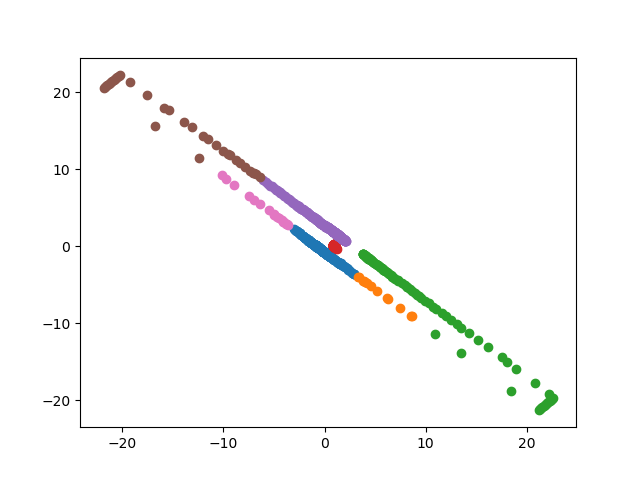
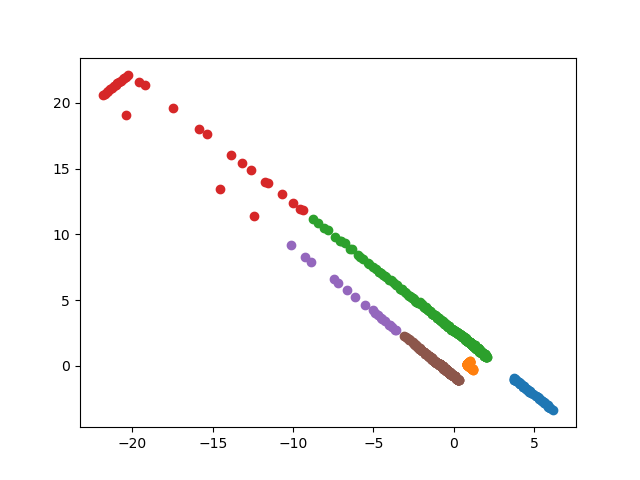
change ICP procedure

diff --git a/wangetall/perception/icp.py b/wangetall/perception/icp.py
@@ -1,6 +1,10 @@
 import numpy as np
 import math
 from sklearn.neighbors import NearestNeighbors
+from skimage.transform import estimate_transform
+from scipy.spatial.distance import cdist
+from scipy.optimize import linear_sum_assignment
+import matplotlib.pyplot as plt
 import sys
 class ICP:
     """
@@ -26,31 +30,47 @@ class ICP:
         Testing out with the params
         """
         self.max_iterations=30
-        self.distance_threshold=10
+        self.distance_threshold=0.5
         self.convergence_translation_threshold=1e-3
         self.convergence_rotation_threshold=1e-4
-        self.point_pairs_threshold=0
+        self.point_pairs_threshold=2
 
-    def run(self, reference_points, points):
+    def run(self, reference_points, points, key = None, trackid = None):
         self.reference_points = reference_points
         self.points = points
-        nbrs = NearestNeighbors(n_neighbors=1, algorithm='kd_tree').fit(self.reference_points)
+        # nbrs = NearestNeighbors(n_neighbors=1, algorithm='kd_tree').fit(self.reference_points)
 
         for iter_num in range(self.max_iterations):
             #print('------ iteration', iter_num, '------')
             static=  False
 
-            closest_point_pairs = []
+            # closest_point_pairs = []
             closest_point_pairs_idxs = []
+            C = cdist(self.points, self.reference_points)
+            try:
+                _, assignment = linear_sum_assignment(C)
+            except ValueError:
+                print(C)
+                breakpoint()
+            if self.points.shape[0] < self.reference_points.shape[0]:
+                N = self.points.shape[0]
+            else:
+                N = self.reference_points.shape[0]
+            validIdxs = [i for i in range(N) if C[i, assignment[i]]<self.distance_threshold]
+            closest_point_pairs = np.zeros((len(validIdxs),2, 2))
+            closest_point_pairs[:,:,0] = self.points[validIdxs]
+            closest_point_pairs[:,:,1] = self.reference_points[assignment[validIdxs]]
+            for idx in validIdxs:
+                closest_point_pairs_idxs.append((idx, assignment[idx]))
+            # if key == 129 and trackid == 2:
+            #     plt.figure()
+            #     plt.plot(self.points[:,0], self.points[:,1],'bo', markersize = 10)
+            #     plt.plot(self.reference_points[:,0], self.reference_points[:,1],'rs',  markersize = 7)
+            #     for p in range(N):
+            #         plt.plot([self.points[p,0], self.reference_points[assignment[p],0]], [self.points[p,1], self.reference_points[assignment[p],1]], 'k')
+            #     plt.show()
+            #     breakpoint()
 
-              # list of point correspondences for closest point rule
-            distances, indices = nbrs.kneighbors(self.points)
-            # Step 1: A point in P is associated to its nearest neighbour in Q if their distance is within a certain threshold,
-            for nn_index in range(len(distances)):
-                if distances[nn_index][0] < self.distance_threshold: # ELSE OUTLIER?
-                    closest_point_pairs.append((self.points[nn_index], self.reference_points[indices[nn_index][0]]))
-                    closest_point_pairs_idxs.append((nn_index, indices[nn_index][0]))
-                    # otherwise it is discarded as an outlier for this iteration and become unassociated to any point in Q.
 
             # if only few point pairs, stop process
             #print('number of pairs found:', len(closest_point_pairs))
@@ -59,21 +79,26 @@ class ICP:
                 break
 
             # All associations obtained in this way are used to estimate a transform that aligns the point set P to Q.
-            closest_rot_angle, closest_translation_x, closest_translation_y = self.point_based_matching(closest_point_pairs)
-
-            if closest_rot_angle is None or closest_translation_x is None or closest_translation_y is None:
+            # closest_rot_angle, closest_translation_x, closest_translation_y = self.point_based_matching(closest_point_pairs)
+            if len(closest_point_pairs) == 0:
                 #print('No better solution can be found!')
                 break
 
-            #T he points in P are then updated to their new positions with the estimated transform
-            c, s = math.cos(closest_rot_angle), math.sin(closest_rot_angle)
-            rot = np.array([[c, -s],
-                            [s, c]])
-            aligned_points = np.dot(self.points, rot.T)
-            aligned_points[:, 0] += closest_translation_x
-            aligned_points[:, 1] += closest_translation_y
 
-            self.points = aligned_points
+            tform = estimate_transform("euclidean", closest_point_pairs[:,:,0], closest_point_pairs[:,:,1])
+            closest_rot_angle = tform.rotation
+            closest_translation_x, closest_translation_y = tform.translation
+
+            #T he points in P are then updated to their new positions with the estimated transform
+
+            # c, s = math.cos(closest_rot_angle), math.sin(closest_rot_angle)
+            # rot = np.array([[c, -s],
+            #                 [s, c]])
+            # aligned_points = np.dot(self.points, rot.T)
+            # aligned_points[:, 0] += closest_translation_x
+            # aligned_points[:, 1] += closest_translation_y
+
+            self.points = tform(self.points)
 
             # and the loop continues until convergence
             if (abs(closest_rot_angle) < self.convergence_rotation_threshold) \

diff --git a/wangetall/coarse_association.py b/wangetall/coarse_association.py
@@ -27,6 +27,7 @@ class Coarse_Association():
 
     def run(self, Z, state): #Q_d, dynamic_tracks_dict):
         #3.: (x, P, A) <- ASSOCIATEANDUPDATEWITHSTATIC(x, P, C)
+
         self.state=state
         if self.state.static_background.xb.size != 0:
             A, static_point_pairs = self.associateAndUpdateWithStatic(Z)
@@ -38,17 +39,19 @@ class Coarse_Association():
             static_point_pairs = []
 
         #5. for i = 1,2,.,Nt do
+        used_clusters = set()
         if len(self.state.dynamic_tracks) != 0:
             dynamic_point_pairs = {}
             dynamic_associations = {}
             for key, track in self.state.dynamic_tracks.items():
                 dynamic_P = track.xp+track.kf.x[0:2]
-                A_d, point_pairs = self.associateAndUpdateWithDynamic(Z, dynamic_P)
+                A_d, point_pairs = self.associateAndUpdateWithDynamic(Z, dynamic_P, track.id)
                 dynamic_associations[key] = A_d
                 dynamic_point_pairs[key] = point_pairs
                 #7. C <- C/A
-                for key in A_d.keys():
-                    del self.C[key]
+                used_clusters.add(key)
+                # for key in A_d.keys():
+                #     del self.C[key]
         else:
             dynamic_associations = {}
             dynamic_point_pairs = {}
@@ -56,8 +59,9 @@ class Coarse_Association():
         new_tracks = {}
         for key in self.C.keys():
             #10. (x, P) INITIALISENEWTRACK(x, P, C)
-            # P = Z[self.C[key]]
-            new_tracks[key] = self.C[key]
+            # new_tracks[key] = self.C[key]
+            if key not in used_clusters:
+                new_tracks[key] = self.C[key]
         # breakpoint()
         return A, static_point_pairs, dynamic_associations, dynamic_point_pairs, new_tracks #A_d, new_tracks
 
@@ -73,12 +77,12 @@ class Coarse_Association():
                     static_C[key] = self.C[key]
         return static_C, point_pairs
 
-    def associateAndUpdateWithDynamic(self, Z, points):
+    def associateAndUpdateWithDynamic(self, Z, points, trackid):
         dynamic_C = {}
         point_idx_pairs = []
         for key in self.C.keys():
             P = Z[self.C[key]]
-            dynamic, point_pairs = self.ICP.run(points, P)
+            dynamic, point_pairs = self.ICP.run(points, P, key, trackid)
             if dynamic:
                 dynamic_C[key] = self.C[key]
                 point_idx_pairs = point_idx_pairs+point_pairs

diff --git a/wangetall/test.py b/wangetall/test.py
@@ -1,36 +1,45 @@
 import numpy as np
 from skimage.transform import estimate_transform
-
 import matplotlib.pyplot as plt
-boundaries = np.load("boundaries.npy")
-boundaries_centroid = np.mean(boundaries, axis = 0)
-scans = np.load("scans.npy")-boundaries_centroid
-boundaries = boundaries - boundaries_centroid
+from scipy.spatial.distance import cdist
+from scipy.optimize import linear_sum_assignment
 
-# boundaries = np.arange(20).reshape((10,2))
+pts = np.load("pts.npy")
+refs = np.load("ref.npy")
 
-# scans = boundaries + [1,2]
+C = cdist(pts, refs)
+print(refs.shape)
+print(pts.shape)
+print(C.shape)
+_, assigment = linear_sum_assignment(C)
 
-tform = estimate_transform("euclidean", boundaries, scans)
-theta = tform.rotation
-print(theta)
-R = np.array([[np.cos(theta), -np.sin(theta)],[np.sin(theta), np.cos(theta)]])
-print(tform.translation)
+if pts.shape[0] < refs.shape[0]:
+    N = pts.shape[0]
+else:
+    N = refs.shape[0]
 
-# b = np.ones((boundaries.shape[0], 3))
-# b[:,0:2]= boundaries
-shifted_b = tform(boundaries)
-test = (boundaries.T+np.array([[tform.translation[0]], [tform.translation[1]]])).T
-# plt.xlim(-0.5, 0.5)
-# plt.ylim(-0.5,0.5)
-plt.gca().set_aspect('equal', adjustable='box')
-plt.scatter(scans[:,0], scans[:,1], c="b", marker="o", alpha =0.5, label="Scan Data")
-plt.scatter(boundaries[:,0], boundaries[:,1], c="orange", marker="o", alpha = 1, label="Boundary Points")
-plt.scatter(shifted_b[:,0], shifted_b[:,1], c="green", marker="o", alpha = 0.5, label="Shifted")
 
-plt.scatter(test[:,0], test[:,1], c="purple", marker="o", alpha = 0.5, label="Test")
+validIdxs = [i for i in range(N) if C[i, assigment[i]]<10]
+pairs = np.zeros((len(validIdxs),2, 2))
+pairs[:,:,0] = pts[validIdxs]
+pairs[:,:,1] = refs[assigment[validIdxs]]
+print(assigment.shape)
 
-plt.legend()
-
+plt.plot(pts[:,0], pts[:,1],'bo', markersize = 10)
+plt.plot(refs[:,0], refs[:,1],'rs',  markersize = 7)
+for p in range(refs.shape[0]):
+    plt.plot([pts[p,0], refs[assigment[p],0]], [pts[p,1], refs[assigment[p],1]], 'k')
+# plt.xlim(-1.1,1.1)
+# plt.ylim(-1.1,1.1)
+plt.axes().set_aspect('equal')
 plt.show()
 
+# x = [[(0,0), (0.1,0.1)],[(2,2), (2.1, 2.1)], [(3,3), (3.1, 3.1)]]
+# t = np.array(x)
+# print(t)
+# print(t[:,0,:])
+# print(t.shape)
+
+# tform = estimate_transform("euclidean", t[:,0,:], t[:,1,:])
+# dx, dy = tform.translation
+# print(dx)

diff --git a/wangetall/perception/lidarUpdater.py b/wangetall/perception/lidarUpdater.py
@@ -128,20 +128,18 @@ class lidarUpdater:
                 initial_association[0] = np.arange(len(tgt_points))
                 xy, x_ind, y_ind = np.intersect1d(pairs[:,0], np.array(tgt_points), return_indices=True)
                 initial_association[1, y_ind] = pairs[x_ind, 1]
-
                 self.jcbb.assign_values(xs = self.state.xs, scan_data = self.polar_laser_points[tgt_points], track = track.kf.x, P = track.kf.P[0:2,0:2], static=False, psi=self.state.xs[2])
-                if track.id == 2:
-                    scan_x, scan_y = Helper.convert_scan_polar_cartesian_joint(self.polar_laser_points[tgt_points])
-                    plt.figure()
-                    # plt.xlim(-15,15)
-                    # plt.ylim(-15,15)
-                    plt.scatter(scan_x, scan_y, c="b", marker="o", alpha = 0.5, label="Scan Data")
-                    plt.scatter(track.xp[:,0]+track.kf.x[0], track.xp[:,1]+track.kf.x[1], c="orange", marker="o", alpha = 0.1, label="Boundary Points")
-                    # plt.savefig("output_plots/{}.png".format(self.i))
-                    self.i += 1
+                # if track.id == 2:
+                #     scan_x, scan_y = Helper.convert_scan_polar_cartesian_joint(self.polar_laser_points[tgt_points])
+                #     plt.figure()
+                #     # plt.xlim(-15,15)
+                #     # plt.ylim(-15,15)
+                #     plt.scatter(scan_x, scan_y, c="b", marker="o", alpha = 0.5, label="Scan Data")
+                #     plt.scatter(track.xp[:,0]+track.kf.x[0], track.xp[:,1]+track.kf.x[1], c="orange", marker="o", alpha = 0.1, label="Boundary Points")
+                #     plt.savefig("output_plots/{}.png".format(self.i))
+                #     self.i += 1
 
                 association = self.jcbb.run(initial_association, track.xp)
-
                 # sys.exit()
                 association[0] = tgt_points
                 pairings = association[:,~np.isnan(association[1])]

diff --git a/wangetall/perception/jcbb.py b/wangetall/perception/jcbb.py
@@ -42,6 +42,7 @@ class JCBB:
         assert boundary_points.shape[1] == 2
         assert self.scan_data.shape[1] == 2
         # print("Boundary points shape {}".format(boundary_points.shape))
+        # print("Scan data shape {}".format(self.scan_data.shape))
         individual_compatibilities = self.compute_compatibility(boundary_points)
         # np.save("P.npy", self.P)
         # np.save("xs.npy", self.xs)
